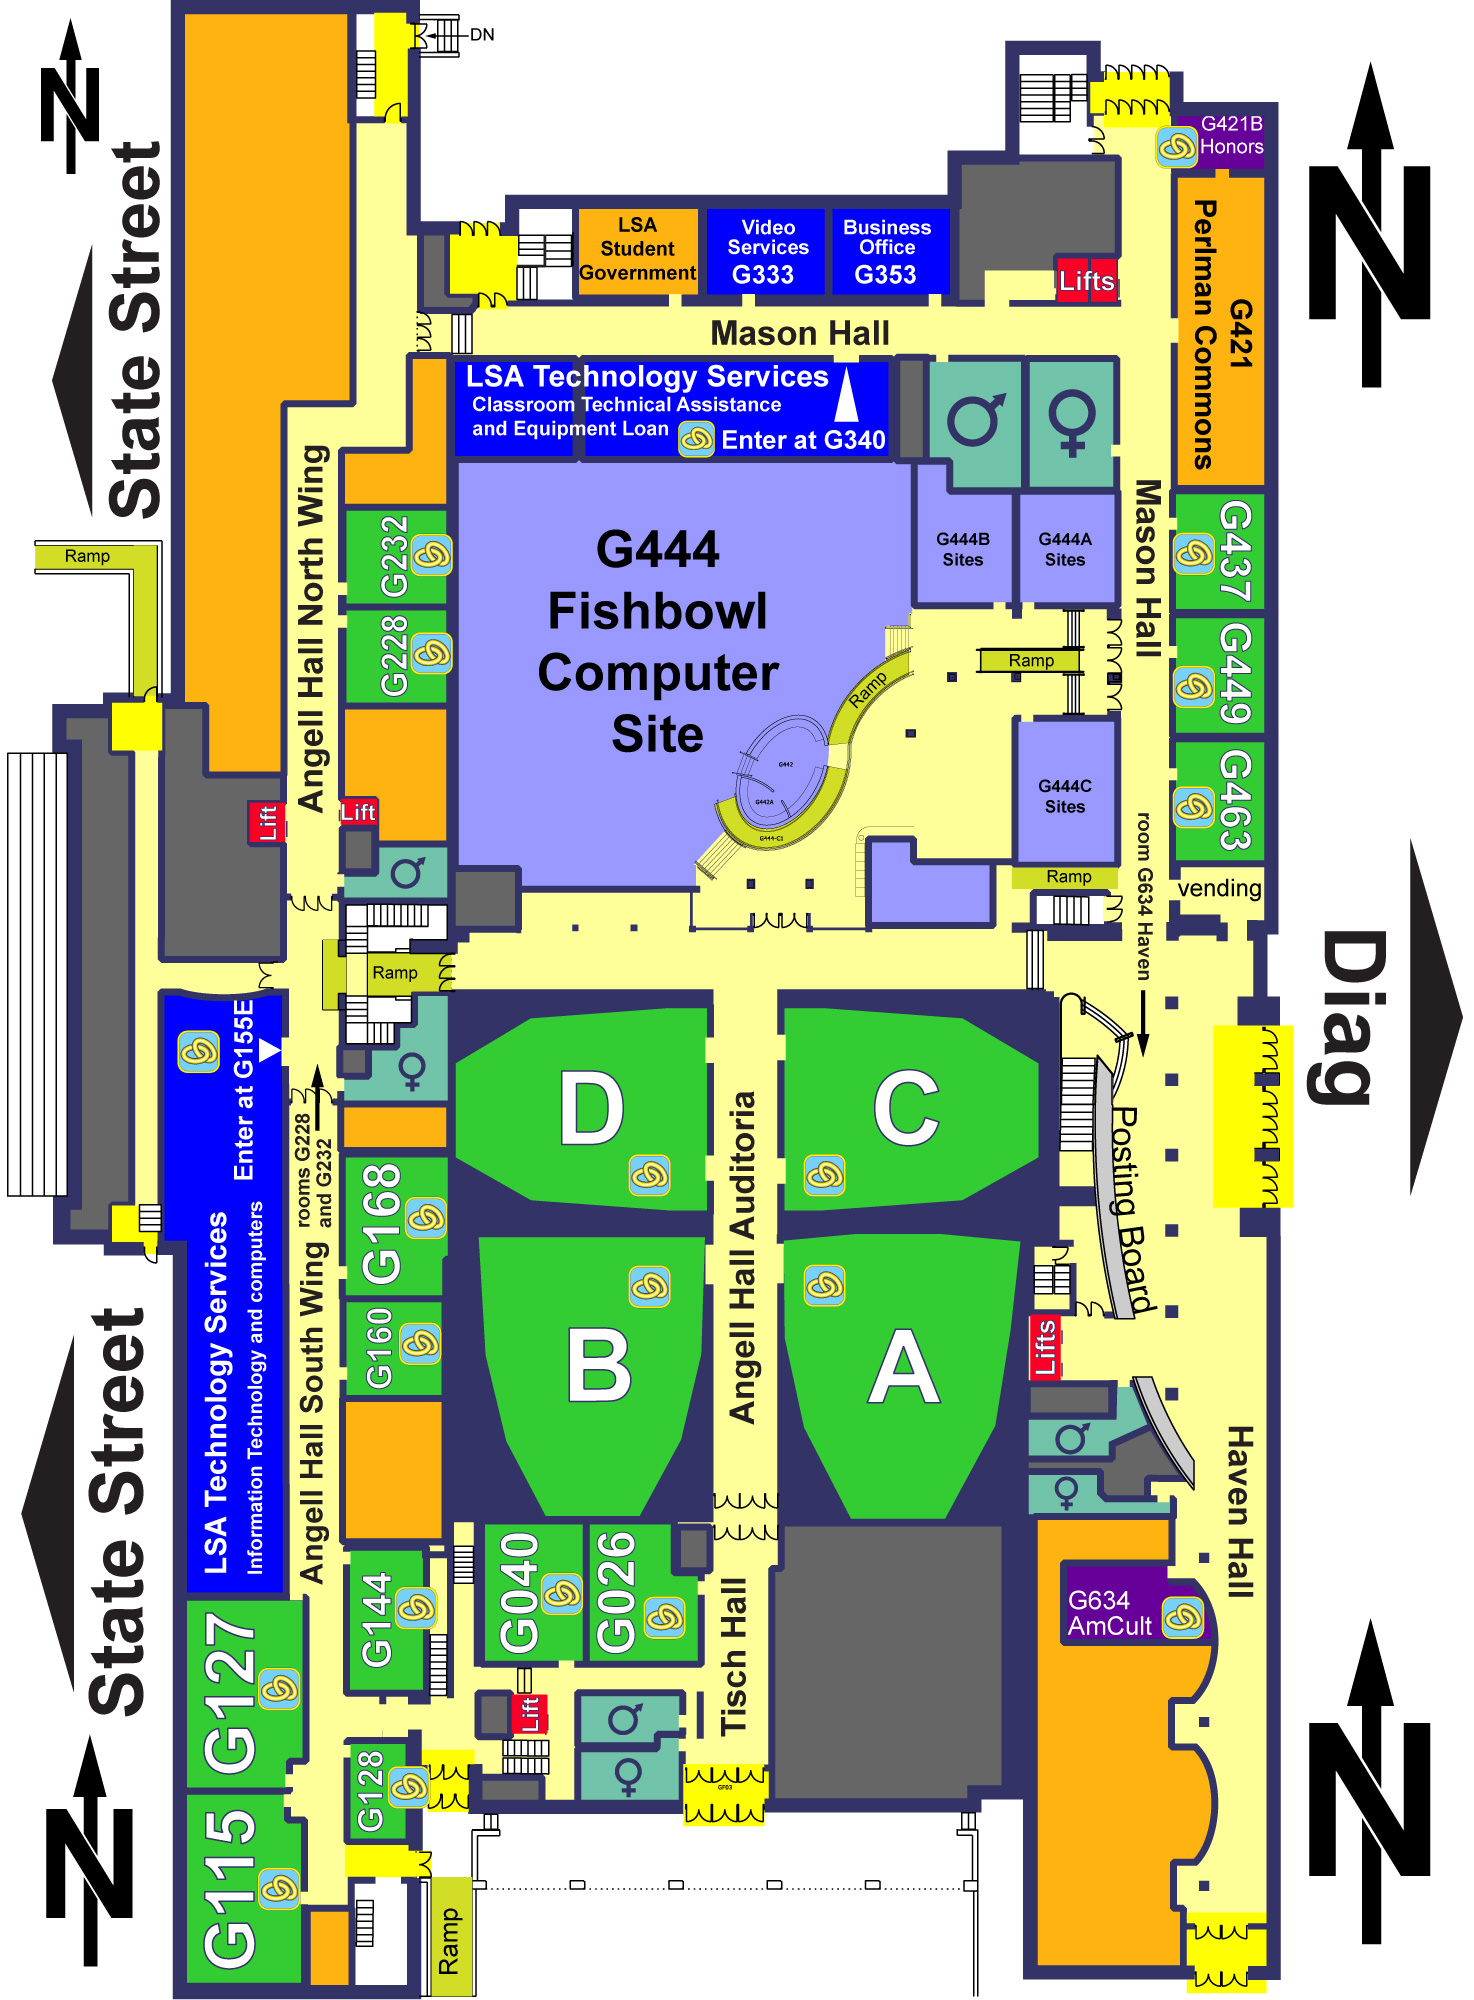
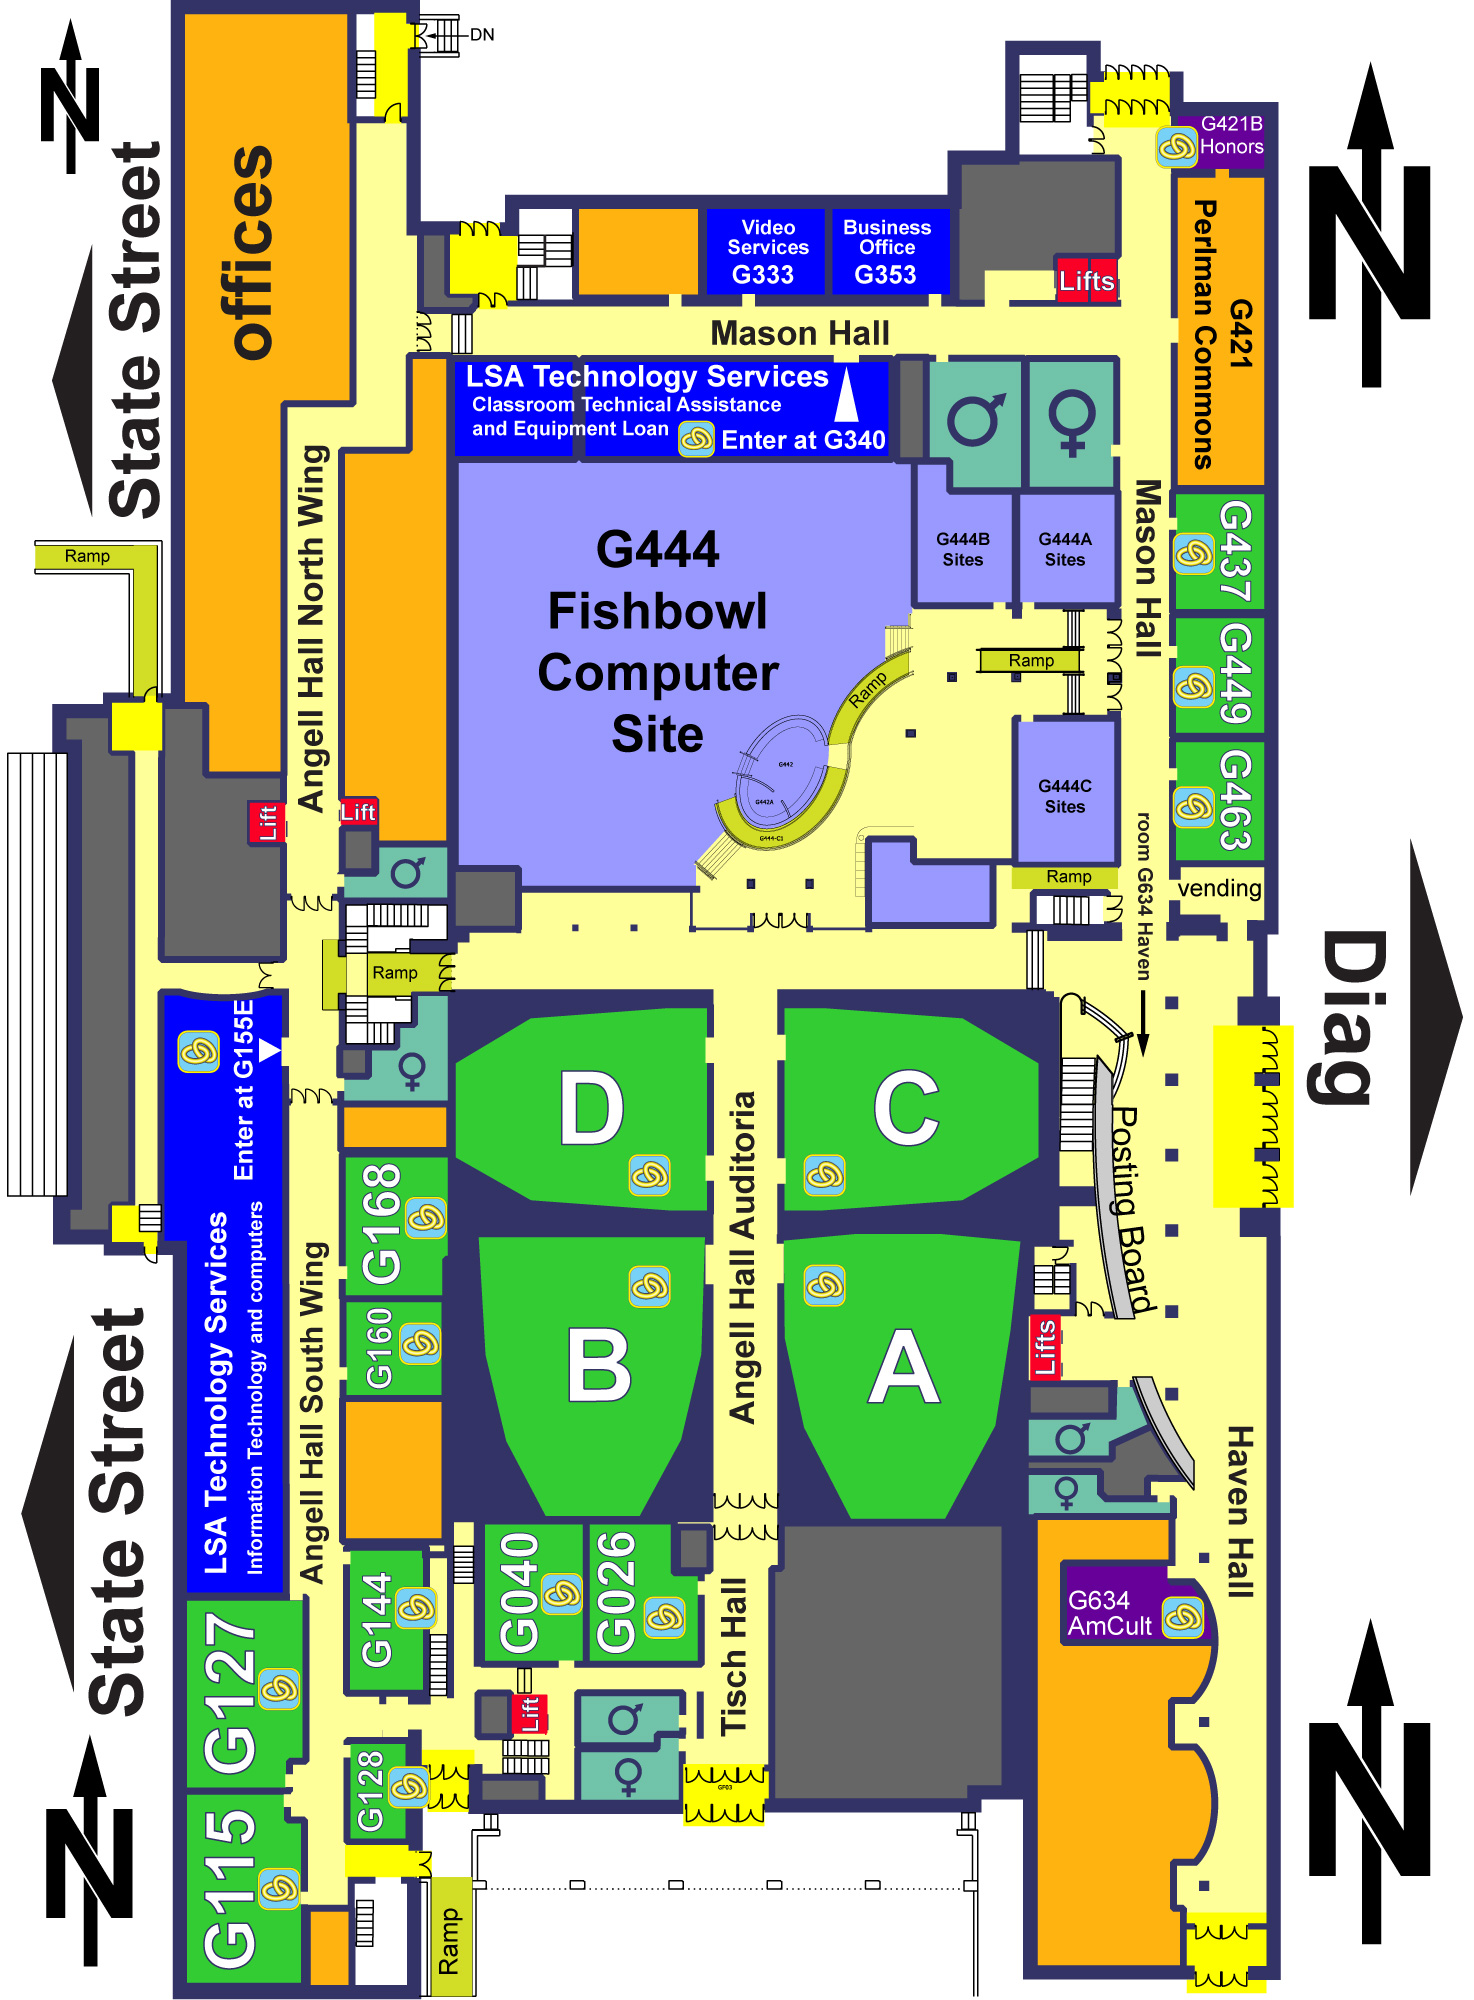
UPDATE: floor maps

diff --git a/public/maps/mhg.html b/public/maps/mhg.html
@@ -180,8 +180,8 @@ a.ahg128{height:5.8%; width:6.3%; bottom:7.2%; left:22.2%;}
 a.ahg144{height:7.5%; width:6.3%; bottom:15%; left:22.5%;}
 a.ahg160{height:5.5%; width:7.5%; bottom:29%; left:22%;}
 a.ahg168{height:7%; width:7.5%; bottom:35%; left:22%;}
-a.ahg228{height:5.5%; width:8%; top:30%; left:22%;}
-a.ahg232{height:5.5%; width:8%; top:24.5%; left:22%;}
+//a.ahg228{height:5.5%; width:8%; top:30%; left:22%;}
+//a.ahg232{height:5.5%; width:8%; top:24.5%; left:22%;}
 a.mhg421b{height:4%; width:8%; top:4.5%; right:12.5%;}
 a.mhg437{height:6.4%; width:8%; top:23.7%; right:12.5%;}
 a.mhg449{height:6%; width:8%; top:30.5%; right:12.5%;}
@@ -227,7 +227,7 @@ a.mhg353{height:5%; width:8%; top:9.8%; right:35%;}
 <main>
 <div id="scrollbox">
 <div id="fpbox">
-<img id="fp" src="ahplexg.jpg" alt="ground floor of the angell mason haven hall complex, nineteen classroom and four technology services links on this drawing." />
+<img id="fp" src="ahplexg.jpg" alt="ground floor of the angell mason haven hall complex, seventeen classroom and four technology services links on this drawing." />
 
 <!-- links to classroom data  -->
 
@@ -248,8 +248,10 @@ a.mhg353{height:5%; width:8%; top:9.8%; right:35%;}
 <a class="rm ahg144" href="../classrooms/AHG144" aria-label="room G one four four angell hall information"></a>
 <a class="rm ahg160" href="../classrooms/AHG160" aria-label="room G one six zero angell hall information"></a>
 <a class="rm ahg168" href="../classrooms/AHG168" aria-label="room G one six eight angell hall information"></a>
+<!-- classrooms off line
 <a class="rm ahg228" href="../classrooms/AHG228" aria-label="room G two two eight angell hall information"></a>
 <a class="rm ahg232" href="../classrooms/AHG232" aria-label="room G two three two angell hall information"></a>
+-->
 <a class="rm ahg155e" href="https://lsa.umich.edu/technology-services" target="_blank" aria-label="opens a new tab. LSA Technology Services angell hall room G one five five E as in echo."></a>
 <a class="rm mhg333" href="https://lsa.umich.edu/iss/support-and-services/video-services.html" target="_blank" aria-label="opens new tab. LSA Video Services mason hall room G three three three."></a>
 <a class="rm mhg340" href="https://lsa.umich.edu/iss/equipment-loan---reservation-.html" target="_blank" aria-label="opens new tab. LSA Equipment Loans mason hall room G three four zero."></a>

diff --git a/public/maps/hhg.html b/public/maps/hhg.html
@@ -180,8 +180,8 @@ a.ahg128{height:5.8%; width:6.3%; bottom:7.2%; left:22.2%;}
 a.ahg144{height:7.5%; width:6.3%; bottom:15%; left:22.5%;}
 a.ahg160{height:5.5%; width:7.5%; bottom:29%; left:22%;}
 a.ahg168{height:7%; width:7.5%; bottom:35%; left:22%;}
-a.ahg228{height:5.5%; width:8%; top:30%; left:22%;}
-a.ahg232{height:5.5%; width:8%; top:24.5%; left:22%;}
+//a.ahg228{height:5.5%; width:8%; top:30%; left:22%;}
+//a.ahg232{height:5.5%; width:8%; top:24.5%; left:22%;}
 a.mhg421b{height:4%; width:8%; top:4.5%; right:12.5%;}
 a.mhg437{height:6.4%; width:8%; top:23.7%; right:12.5%;}
 a.mhg449{height:6%; width:8%; top:30.5%; right:12.5%;}
@@ -257,7 +257,7 @@ MClassrooms Home</a>
 <main>
 <div id="scrollbox">
 <div id="fpbox">
-<img id="fp" src="ahplexg.jpg" alt="ground floor of the angell mason haven hall complex, nineteen classroom and four technology services links on this drawing." />
+<img id="fp" src="ahplexg.jpg" alt="ground floor of the angell mason haven hall complex, seventeen classroom and four technology services links on this drawing." />
 
 <!-- links to classroom data  -->
 
@@ -274,8 +274,10 @@ MClassrooms Home</a>
 <a class="rm ahg144" href="../classrooms/AHG144" aria-label="room G one four four angell hall information"></a>
 <a class="rm ahg160" href="../classrooms/AHG160" aria-label="room G one six zero angell hall information"></a>
 <a class="rm ahg168" href="../classrooms/AHG168" aria-label="room G one six eight angell hall information"></a>
+<!-- classrooms off line
 <a class="rm ahg228" href="../classrooms/AHG228" aria-label="room G two two eight angell hall information"></a>
 <a class="rm ahg232" href="../classrooms/AHG232" aria-label="room G two three two angell hall information"></a>
+-->
 <a class="rm mhg421b" href="../classrooms/MHG421B" aria-label="room G four two one B mason hall information"></a>
 <a class="rm mhg437" href="../classrooms/MHG437" aria-label="room G four three seven mason hall information"></a>
 <a class="rm mhg449" href="../classrooms/MHG449" aria-label="room G four four nine mason hall information"></a>

diff --git a/public/maps/ahg.html b/public/maps/ahg.html
@@ -180,8 +180,8 @@ a.ahg128{height:5.8%; width:6.3%; bottom:7.2%; left:22.2%;}
 a.ahg144{height:7.5%; width:6.3%; bottom:15%; left:22.5%;}
 a.ahg160{height:5.5%; width:7.5%; bottom:29%; left:22%;}
 a.ahg168{height:7%; width:7.5%; bottom:35%; left:22%;}
-a.ahg228{height:5.5%; width:8%; top:30%; left:22%;}
-a.ahg232{height:5.5%; width:8%; top:24.5%; left:22%;}
+//a.ahg228{height:5.5%; width:8%; top:30%; left:22%;}
+//a.ahg232{height:5.5%; width:8%; top:24.5%; left:22%;}
 a.mhg421b{height:4%; width:8%; top:4.5%; right:12.5%;}
 a.mhg437{height:6.4%; width:8%; top:23.7%; right:12.5%;}
 a.mhg449{height:6%; width:8%; top:30.5%; right:12.5%;}
@@ -254,7 +254,7 @@ MClassrooms Home</a>
 <main>
 <div id="scrollbox">
 <div id="fpbox">
-<img id="fp" src="ahplexg.jpg" alt="ground floor of the angell mason haven hall complex, nineteen classroom and four technology services links on this drawing." />
+<img id="fp" src="ahplexg.jpg" alt="ground floor of the angell mason haven hall complex, seventeen classroom and four technology services links on this drawing." />
 
 <!-- links to classroom data  -->
 
@@ -270,8 +270,10 @@ MClassrooms Home</a>
 <a class="rm ahg144" href="../classrooms/AHG144" aria-label="room G one four four angell information"></a>
 <a class="rm ahg160" href="../classrooms/AHG160" aria-label="room G one six zero angell information"></a>
 <a class="rm ahg168" href="../classrooms/AHG168" aria-label="room G one six eight angell information"></a>
+<!-- classrooms off line
 <a class="rm ahg228" href="../classrooms/AHG228" aria-label="room G two two eight angell information"></a>
 <a class="rm ahg232" href="../classrooms/AHG232" aria-label="room G two three two angell information"></a>
+-->
 <a class="rm mhg421b" href="../classrooms/MHG421B" aria-label="room G four two one B mason information"></a>
 <a class="rm mhg437" href="../classrooms/MHG437" aria-label="room G four three seven mason information"></a>
 <a class="rm mhg449" href="../classrooms/MHG449" aria-label="room G four four nine mason information"></a>
